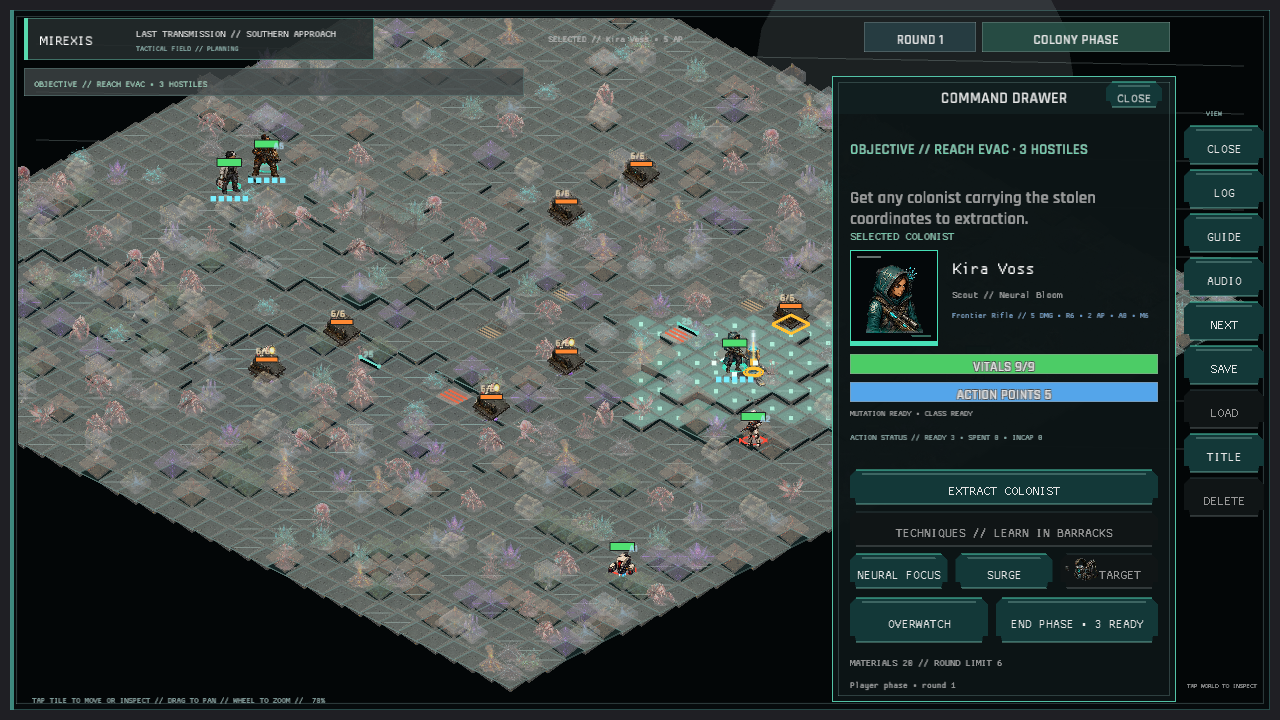
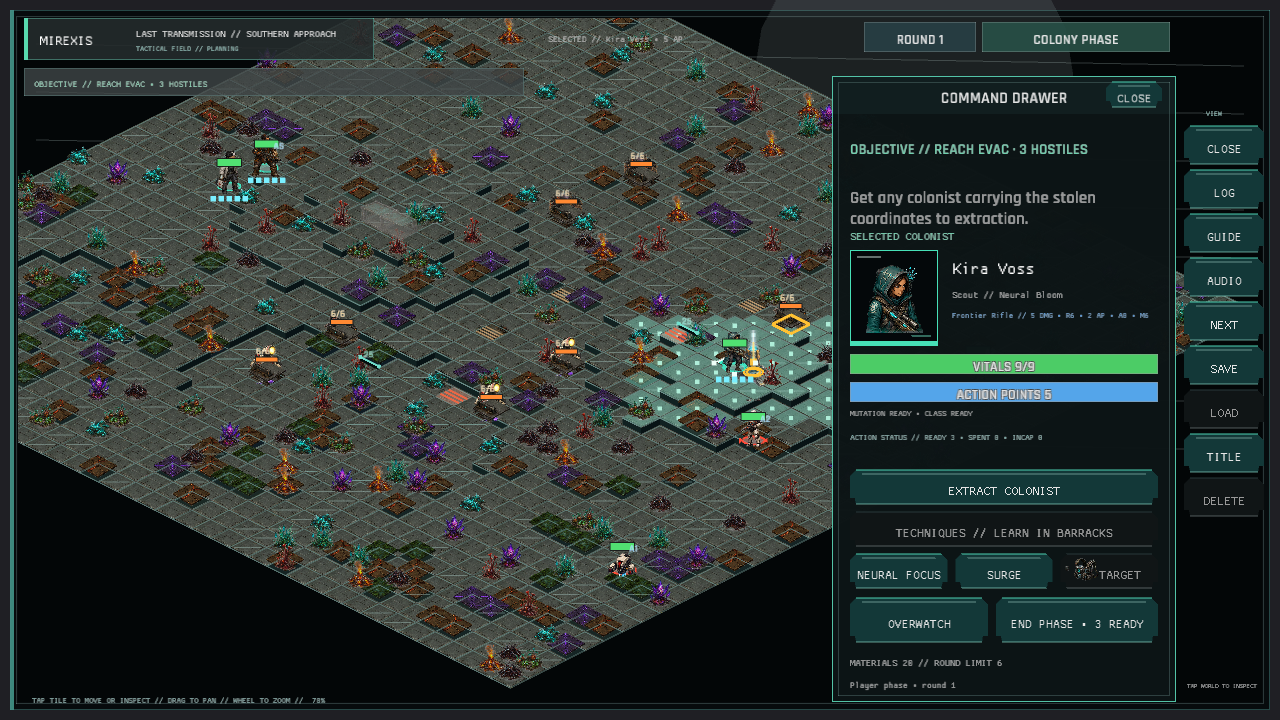
The mire settles its ground into one solid plane (tactical terrain projection and opacity)
Battlefield atlas cells were authored as square images but stretched into 4:3 destinations, distorting their isometric perspective. Open tiles also layered miniature full terrain cells over the base map, creating mismatched tile piles, while tactical tint alpha values between 0.42 and 0.92 made the art look translucent.

Preserve the square atlas-cell aspect, remove full-tile concept overlays from open ground, keep the former fauna slot as a standalone flora cutout, and render tactical terrain, flora, wreckage, and emplacements at full opacity. Focused tests prevent the removed overlay slots from returning.

Refresh and inspect the gameplay and zoomed variant captures. Verified with all 512 unit tests, both integration checks, the 109-scene capture audit, formatting and source-size gates, and the full Windows/WebGL Preview publisher.

diff --git a/src/world_art.rs b/src/world_art.rs
@@ -60,7 +60,7 @@ pub(crate) fn draw_tactical_dressing(
                 cell,
                 1.04,
                 [0.50, 0.84],
-                Color::new(1.0, 1.0, 1.0, 0.86),
+                Color::new(1.0, 1.0, 1.0, 1.0),
             );
         } else {
             draw_tile_cell(
@@ -69,7 +69,7 @@ pub(crate) fn draw_tactical_dressing(
                 (signature % 12) as usize,
                 1.00,
                 [0.50, 0.84],
-                Color::new(0.90, 0.94, 0.92, 0.82),
+                Color::new(0.90, 0.94, 0.92, 1.0),
             );
         }
         return;
@@ -78,24 +78,15 @@ pub(crate) fn draw_tactical_dressing(
         return;
     }
 
-    match open_tile_dressing(signature) {
-        Some(("flora", cell)) => draw_tile_cell(
+    if let Some(cell) = open_tile_flora_cell(signature) {
+        draw_tile_cell(
             &context,
             "flora",
             cell,
             0.78,
             [0.50, 0.84],
-            Color::new(0.78, 0.94, 0.88, 0.52),
-        ),
-        Some(("terrain_dressing", cell)) => draw_tile_cell(
-            &context,
-            "terrain_dressing",
-            cell,
-            0.86,
-            [0.50, 0.84],
-            Color::new(0.86, 0.94, 0.92, 0.42),
-        ),
-        Some(_) | None => {}
+            Color::new(0.78, 0.94, 0.88, 1.0),
+        );
     }
 }
 
@@ -225,14 +216,9 @@ fn flora_cell(signature: u32) -> usize {
     [0, 1, 2, 7, 8, 9, 11][(signature % 7) as usize]
 }
 
-fn terrain_dressing_cell(signature: u32) -> usize {
-    [0, 1, 4, 5, 8, 9][(signature % 6) as usize]
-}
-
-fn open_tile_dressing(signature: u32) -> Option<(&'static str, usize)> {
+fn open_tile_flora_cell(signature: u32) -> Option<usize> {
     match signature % 23 {
-        0 | 1 => Some(("flora", flora_cell(signature))),
-        2 | 3 | 4 => Some(("terrain_dressing", terrain_dressing_cell(signature))),
+        0 | 1 | 2 => Some(flora_cell(signature)),
         _ => None,
     }
 }

diff --git a/src/world_art/tests.rs b/src/world_art/tests.rs
@@ -1,22 +1,12 @@
 use super::*;
 
 #[test]
-fn empty_tactical_tiles_only_select_terrain_or_flora_dressing() {
-    for signature in 0..23 {
-        let Some((atlas, _)) = open_tile_dressing(signature) else {
-            continue;
-        };
-        assert!(
-            matches!(atlas, "flora" | "terrain_dressing"),
-            "empty tile selected non-terrain atlas {atlas}"
-        );
-    }
+fn former_fauna_slot_selects_an_authored_flora_cutout() {
+    assert!(open_tile_flora_cell(2).is_some());
 }
 
 #[test]
-fn former_fauna_slot_selects_authored_terrain_dressing() {
-    assert!(matches!(
-        open_tile_dressing(2),
-        Some(("terrain_dressing", _))
-    ));
+fn full_terrain_tile_slots_are_not_layered_over_open_tiles() {
+    assert_eq!(open_tile_flora_cell(3), None);
+    assert_eq!(open_tile_flora_cell(4), None);
 }

diff --git a/src/tactical_map_ui.rs b/src/tactical_map_ui.rs
@@ -371,13 +371,13 @@ fn draw_cliff_face(
 
 fn tactical_terrain_tint(index: usize, blocked: bool) -> Color {
     if blocked {
-        return Color::new(1.0, 0.93, 0.82, 0.92);
+        return Color::new(1.0, 0.93, 0.82, 1.0);
     }
     match index {
-        8 => Color::new(0.62, 0.92, 0.76, 0.58),
-        10 => Color::new(1.0, 0.78, 0.52, 0.54),
-        11 => Color::new(0.84, 0.68, 1.0, 0.56),
-        _ => Color::new(0.92, 0.97, 0.94, 0.72),
+        8 => Color::new(0.62, 0.92, 0.76, 1.0),
+        10 => Color::new(1.0, 0.78, 0.52, 1.0),
+        11 => Color::new(0.84, 0.68, 1.0, 1.0),
+        _ => Color::new(0.92, 0.97, 0.94, 1.0),
     }
 }
 

diff --git a/src/grid_ui.rs b/src/grid_ui.rs
@@ -14,7 +14,9 @@ pub(crate) const STRUCTURE_ART_SCALE: f32 = 1.10;
 pub(crate) const STRUCTURE_ART_PIVOT: [f32; 2] = [0.50, 0.68];
 pub(crate) const CANOPY_ART_SCALE: f32 = 1.15;
 pub(crate) const CANOPY_ART_PIVOT: [f32; 2] = [0.50, 0.65];
-pub(crate) const TERRAIN_ART_ASPECT: f32 = 4.0 / 3.0;
+// Terrain and concept atlases are authored as square cells. Preserve that
+// source aspect so their isometric diamonds are not stretched vertically.
+pub(crate) const TERRAIN_ART_ASPECT: f32 = 1.0;
 
 #[derive(Debug, Clone, Copy, Default)]
 pub(crate) struct CameraInsets {

diff --git a/docs/verification/FINAL_CAPTURE_INVENTORY.md b/docs/verification/FINAL_CAPTURE_INVENTORY.md
@@ -113,7 +113,7 @@ Manifest: `scripts/capture_ui.ps1`
[8 lines of base64/hex data omitted]
@@ -146,7 +146,7 @@ Manifest: `scripts/capture_ui.ps1`
[8 lines of base64/hex data omitted]
